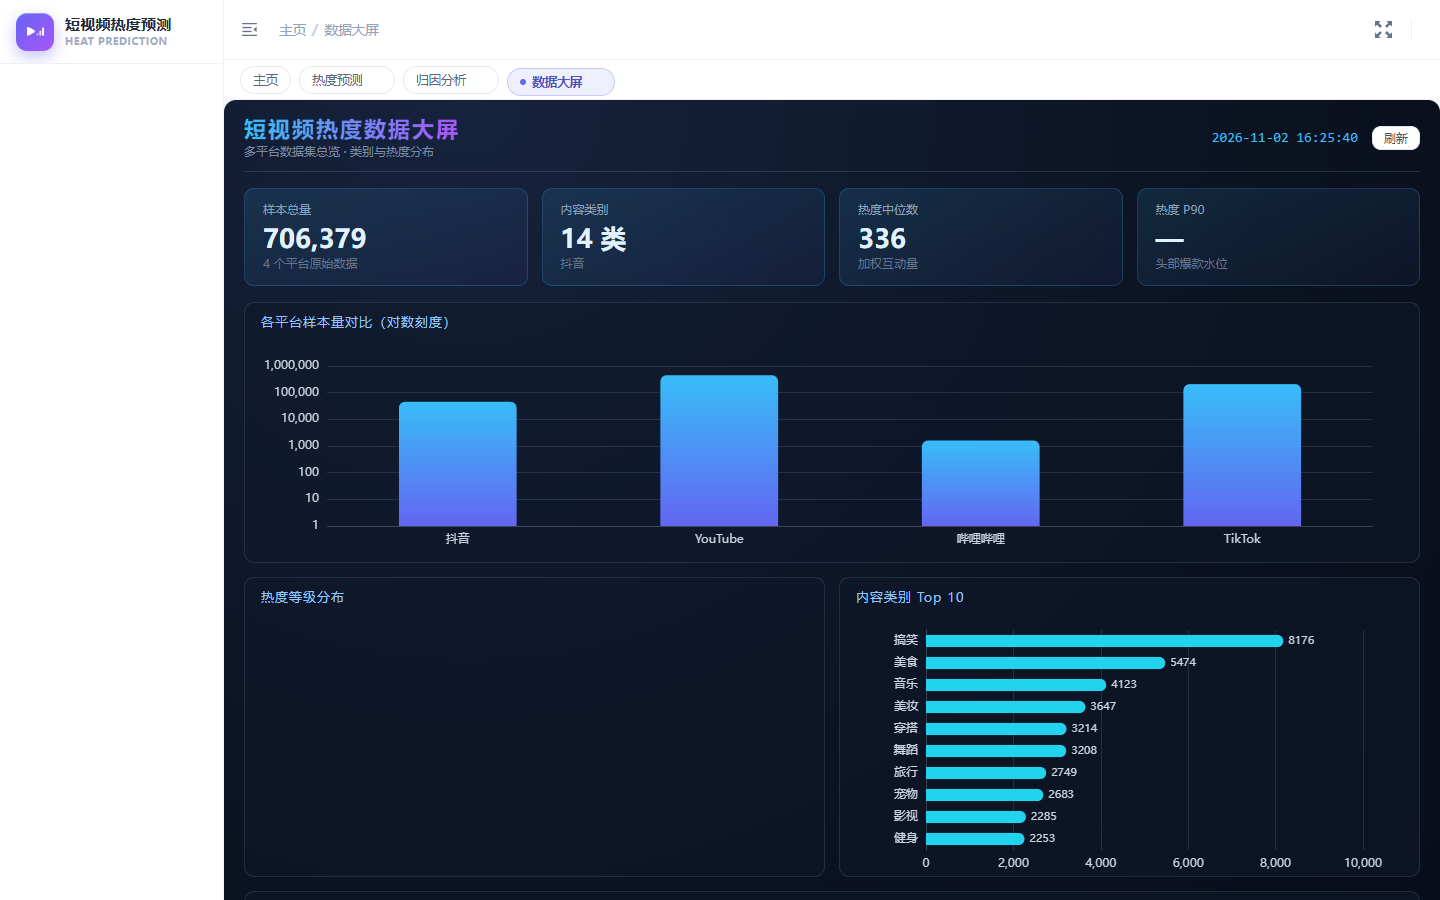
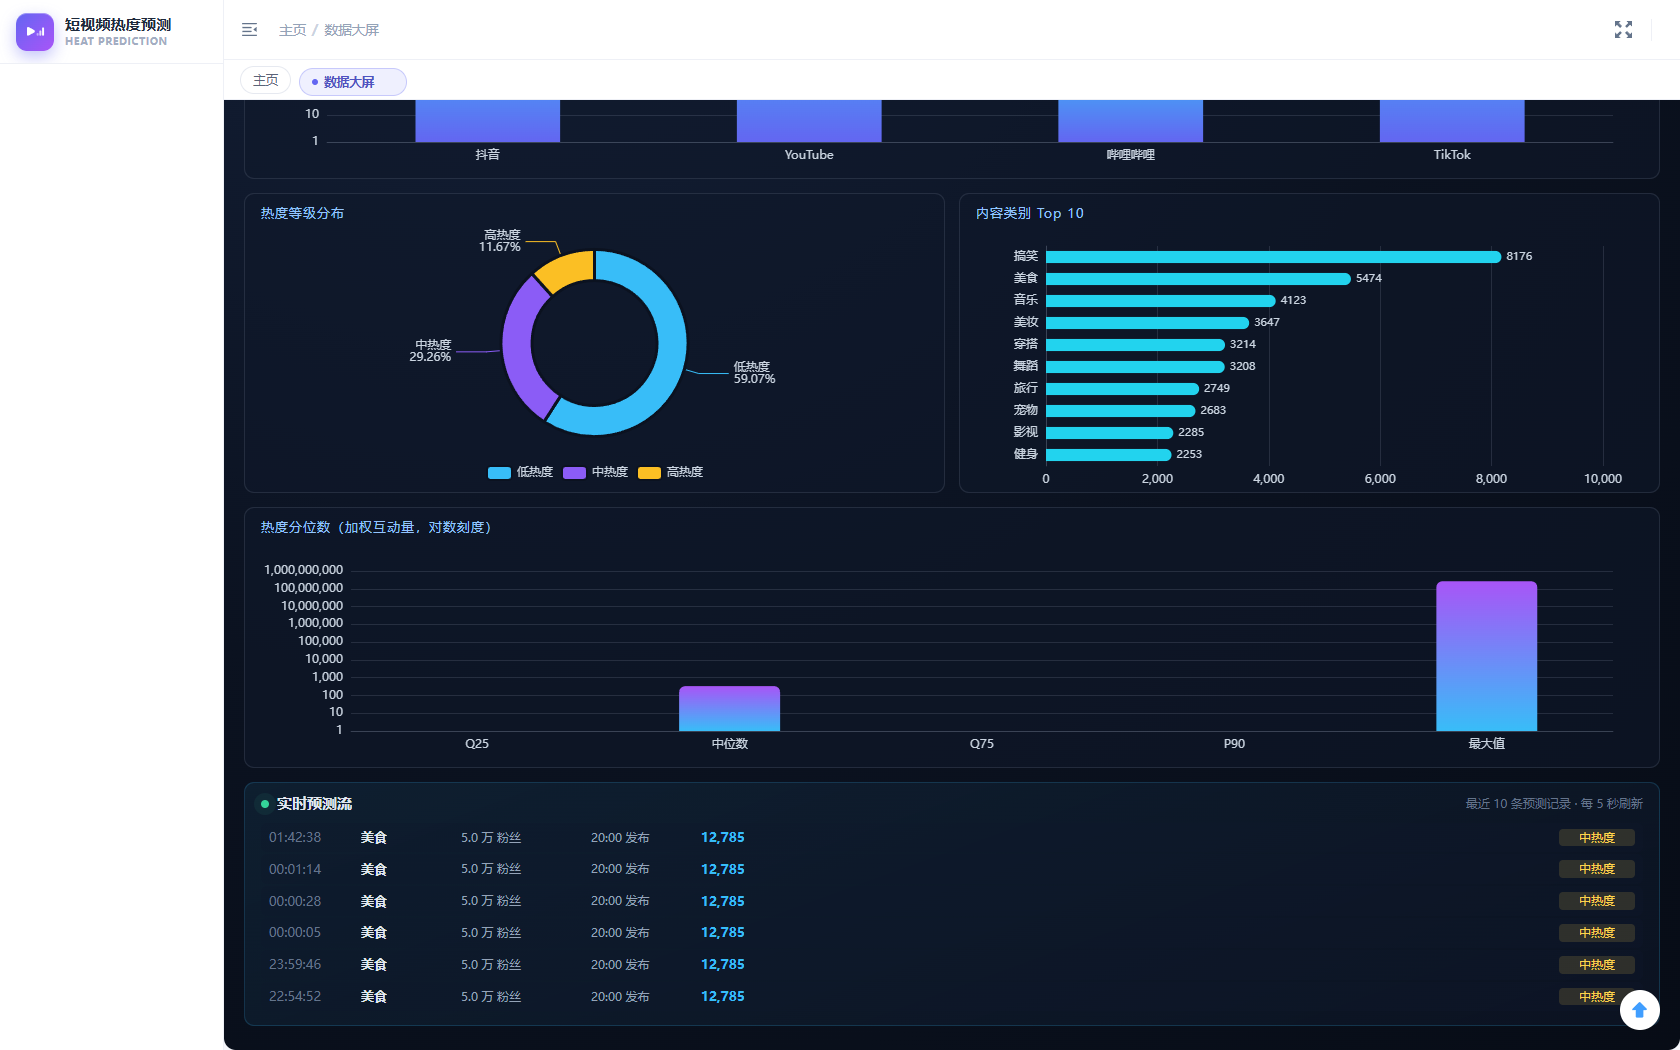
feat(screen): 数据大屏接入实时预测流并修复等级分布饼图空白
- 新增「实时预测流」面板：每 5 秒拉取最近 10 条预测记录，显示时间、类别、粉丝数、发布时段、预测热度与等级徽章，最新一条带脉冲高亮，让大屏反映系统是活的

- 修复「热度等级分布」饼图空白：后端返回 [{grade, count}]，前端按 ECharts 需要的 {name, value} 取值导致数据为空；现做字段归一，实测低 59.07% / 中 29.26% / 高 11.67% 正常渲染

- 大屏截图同步更新（含实时流与修复后的饼图）

diff --git a/frontend/src/views/screen/index.vue b/frontend/src/views/screen/index.vue
@@ -40,6 +40,27 @@
         <div ref="quantileChart" class="chart-body"></div>
       </div>
     </div>
+
+    <!-- 实时预测流：让大屏反映"系统是活的" -->
+    <div class="stream-card">
+      <div class="stream-head">
+        <span class="stream-title">
+          <i class="live-dot" />实时预测流
+        </span>
+        <span class="stream-sub">最近 {{ stream.length }} 条预测记录 · 每 5 秒刷新</span>
+      </div>
+      <div class="stream-body">
+        <div v-if="!stream.length" class="stream-empty">暂无预测记录</div>
+        <div v-for="(r, i) in stream" :key="r.id" class="stream-row" :class="{ fresh: i === 0 && r.fresh }">
+          <span class="c-time">{{ (r.createTime || '').slice(11) }}</span>
+          <span class="c-cat">{{ r.videoCategory }}</span>
+          <span class="c-fans">{{ fmtFans(r.authorFans) }} 粉丝</span>
+          <span class="c-hour">{{ r.publishHour }}:00 发布</span>
+          <span class="c-heat">{{ fmtInt(r.prediction) }}</span>
+          <span class="c-grade" :class="gradeClass(r.grade)">{{ r.grade }}</span>
+        </div>
+      </div>
+    </div>
   </div>
 </template>
 
@@ -49,6 +70,7 @@ import { BarChart, PieChart } from 'echarts/charts'
 import { GridComponent, TooltipComponent, LegendComponent } from 'echarts/components'
 import { CanvasRenderer } from 'echarts/renderers'
 import dataApi from '@/api/data'
+import predictApi from '@/api/predict'
 
 echarts.use([BarChart, PieChart, GridComponent, TooltipComponent, LegendComponent, CanvasRenderer])
 
@@ -66,7 +88,11 @@ export default {
       platformMeta: [],
       platforms: [],
       ov: {},
-      charts: {}
+      charts: {},
+      // 实时预测流
+      stream: [],
+      streamTimer: null,
+      lastStreamId: null
     }
   },
   computed: {
@@ -87,15 +113,42 @@ export default {
   mounted () {
     this.tick()
     this.clockTimer = setInterval(this.tick, 1000)
+    this.loadStream()
+    this.streamTimer = setInterval(this.loadStream, 5000)
     window.addEventListener('resize', this.resizeCharts)
   },
   beforeUnmount () {
     if (this.clockTimer) clearInterval(this.clockTimer)
+    if (this.streamTimer) clearInterval(this.streamTimer)
     window.removeEventListener('resize', this.resizeCharts)
     Object.values(this.charts).forEach(c => c && c.dispose())
     this.charts = {}
   },
   methods: {
+    /**
+     * 拉取最近预测记录并渲染成滚动流。
+     * 首次拉取或出现新记录时，最新一条会带高亮（fresh），让大屏一眼能看出"系统在跑"。
+     */
+    loadStream () {
+      predictApi.logs({ page: 1, size: 10 }).then(re => {
+        const list = (re.response && re.response.list) || []
+        const newest = list.length ? list[0].id : null
+        const isNew = this.lastStreamId != null && newest != null && newest > this.lastStreamId
+        this.lastStreamId = newest
+        this.stream = list.map((r, i) => Object.assign({}, r, { fresh: isNew && i === 0 }))
+      }).catch(() => { /* 大屏静默失败：不影响其它面板 */ })
+    },
+    fmtFans (v) {
+      const n = Number(v)
+      if (!isFinite(n)) return '—'
+      if (n >= 10000) return (n / 10000).toFixed(1) + ' 万'
+      return String(Math.round(n))
+    },
+    gradeClass (grade) {
+      if (grade === '高热度') return 'g-high'
+      if (grade === '中热度') return 'g-mid'
+      return 'g-low'
+    },
     tick () {
       const d = new Date()
       const pad = n => String(n).padStart(2, '0')
@@ -178,8 +231,9 @@ export default {
       const chart = this.chartOf('gradeChart')
       if (!chart) return
       const dist = this.ov.gradeDistribution || {}
+      // 后端返回 [{ grade, count }]，ECharts 饼图需要 [{ name, value }]，这里做一次字段归一
       const data = Array.isArray(dist)
-        ? dist
+        ? dist.map(d => ({ name: d.name || d.grade, value: Number(d.value != null ? d.value : d.count) || 0 }))
         : Object.keys(dist).map(k => ({ name: k, value: dist[k] }))
       chart.setOption({
         backgroundColor: 'transparent',
@@ -370,5 +424,141 @@ export default {
   .chart-card.wide {
     grid-column: span 1;
   }
+}
+
+/* ============ 实时预测流 ============ */
+.stream-card {
+  margin-top: 14px;
+  border: 1px solid rgba(56, 189, 248, 0.18);
+  border-radius: 10px;
+  background: linear-gradient(160deg, rgba(56, 189, 248, 0.08), rgba(15, 23, 42, 0.55));
+  padding: 12px 16px 14px;
+}
+
+.stream-head {
+  display: flex;
+  align-items: center;
+  justify-content: space-between;
+  margin-bottom: 10px;
+}
+
+.stream-title {
+  font-size: 15px;
+  font-weight: 600;
+  color: #e2e8f0;
+  display: inline-flex;
+  align-items: center;
+  gap: 8px;
+}
+
+.live-dot {
+  width: 8px;
+  height: 8px;
+  border-radius: 50%;
+  background: #34d399;
+  box-shadow: 0 0 0 0 rgba(52, 211, 153, 0.6);
+  animation: live-pulse 2s infinite;
+}
+
+@keyframes live-pulse {
+  0% {
+    box-shadow: 0 0 0 0 rgba(52, 211, 153, 0.55);
+  }
+  70% {
+    box-shadow: 0 0 0 8px rgba(52, 211, 153, 0);
+  }
+  100% {
+    box-shadow: 0 0 0 0 rgba(52, 211, 153, 0);
+  }
+}
+
+.stream-sub {
+  font-size: 12px;
+  color: #64748b;
+}
+
+.stream-body {
+  display: flex;
+  flex-direction: column;
+  gap: 2px;
+  max-height: 188px;
+  overflow-y: auto;
+}
+
+.stream-row {
+  display: grid;
+  grid-template-columns: 82px 90px 120px 100px 1fr 76px;
+  align-items: center;
+  gap: 10px;
+  font-size: 13px;
+  color: #cbd5e1;
+  padding: 6px 8px;
+  border-radius: 6px;
+  background: rgba(15, 23, 42, 0.35);
+}
+
+.stream-row.fresh {
+  background: rgba(52, 211, 153, 0.12);
+  animation: fresh-fade 2.4s ease-out;
+}
+
+@keyframes fresh-fade {
+  0% {
+    background: rgba(52, 211, 153, 0.28);
+  }
+  100% {
+    background: rgba(15, 23, 42, 0.35);
+  }
+}
+
+.c-time {
+  color: #64748b;
+  font-variant-numeric: tabular-nums;
+}
+
+.c-cat {
+  color: #e2e8f0;
+  font-weight: 600;
+}
+
+.c-fans,
+.c-hour {
+  color: #94a3b8;
+  font-size: 12px;
+}
+
+.c-heat {
+  color: #38bdf8;
+  font-weight: 700;
+  font-variant-numeric: tabular-nums;
+}
+
+.c-grade {
+  text-align: center;
+  border-radius: 4px;
+  padding: 2px 0;
+  font-size: 12px;
+}
+
+.g-high {
+  color: #fca5a5;
+  background: rgba(248, 113, 113, 0.16);
+}
+
+.g-mid {
+  color: #fcd34d;
+  background: rgba(252, 211, 77, 0.14);
+}
+
+.g-low {
+  color: #94a3b8;
+  background: rgba(148, 163, 184, 0.14);
+}
+
+.stream-empty {
+  font-size: 13px;
+  color: #64748b;
+  padding: 14px 8px;
+  text-align: center;
 }
 </style>
